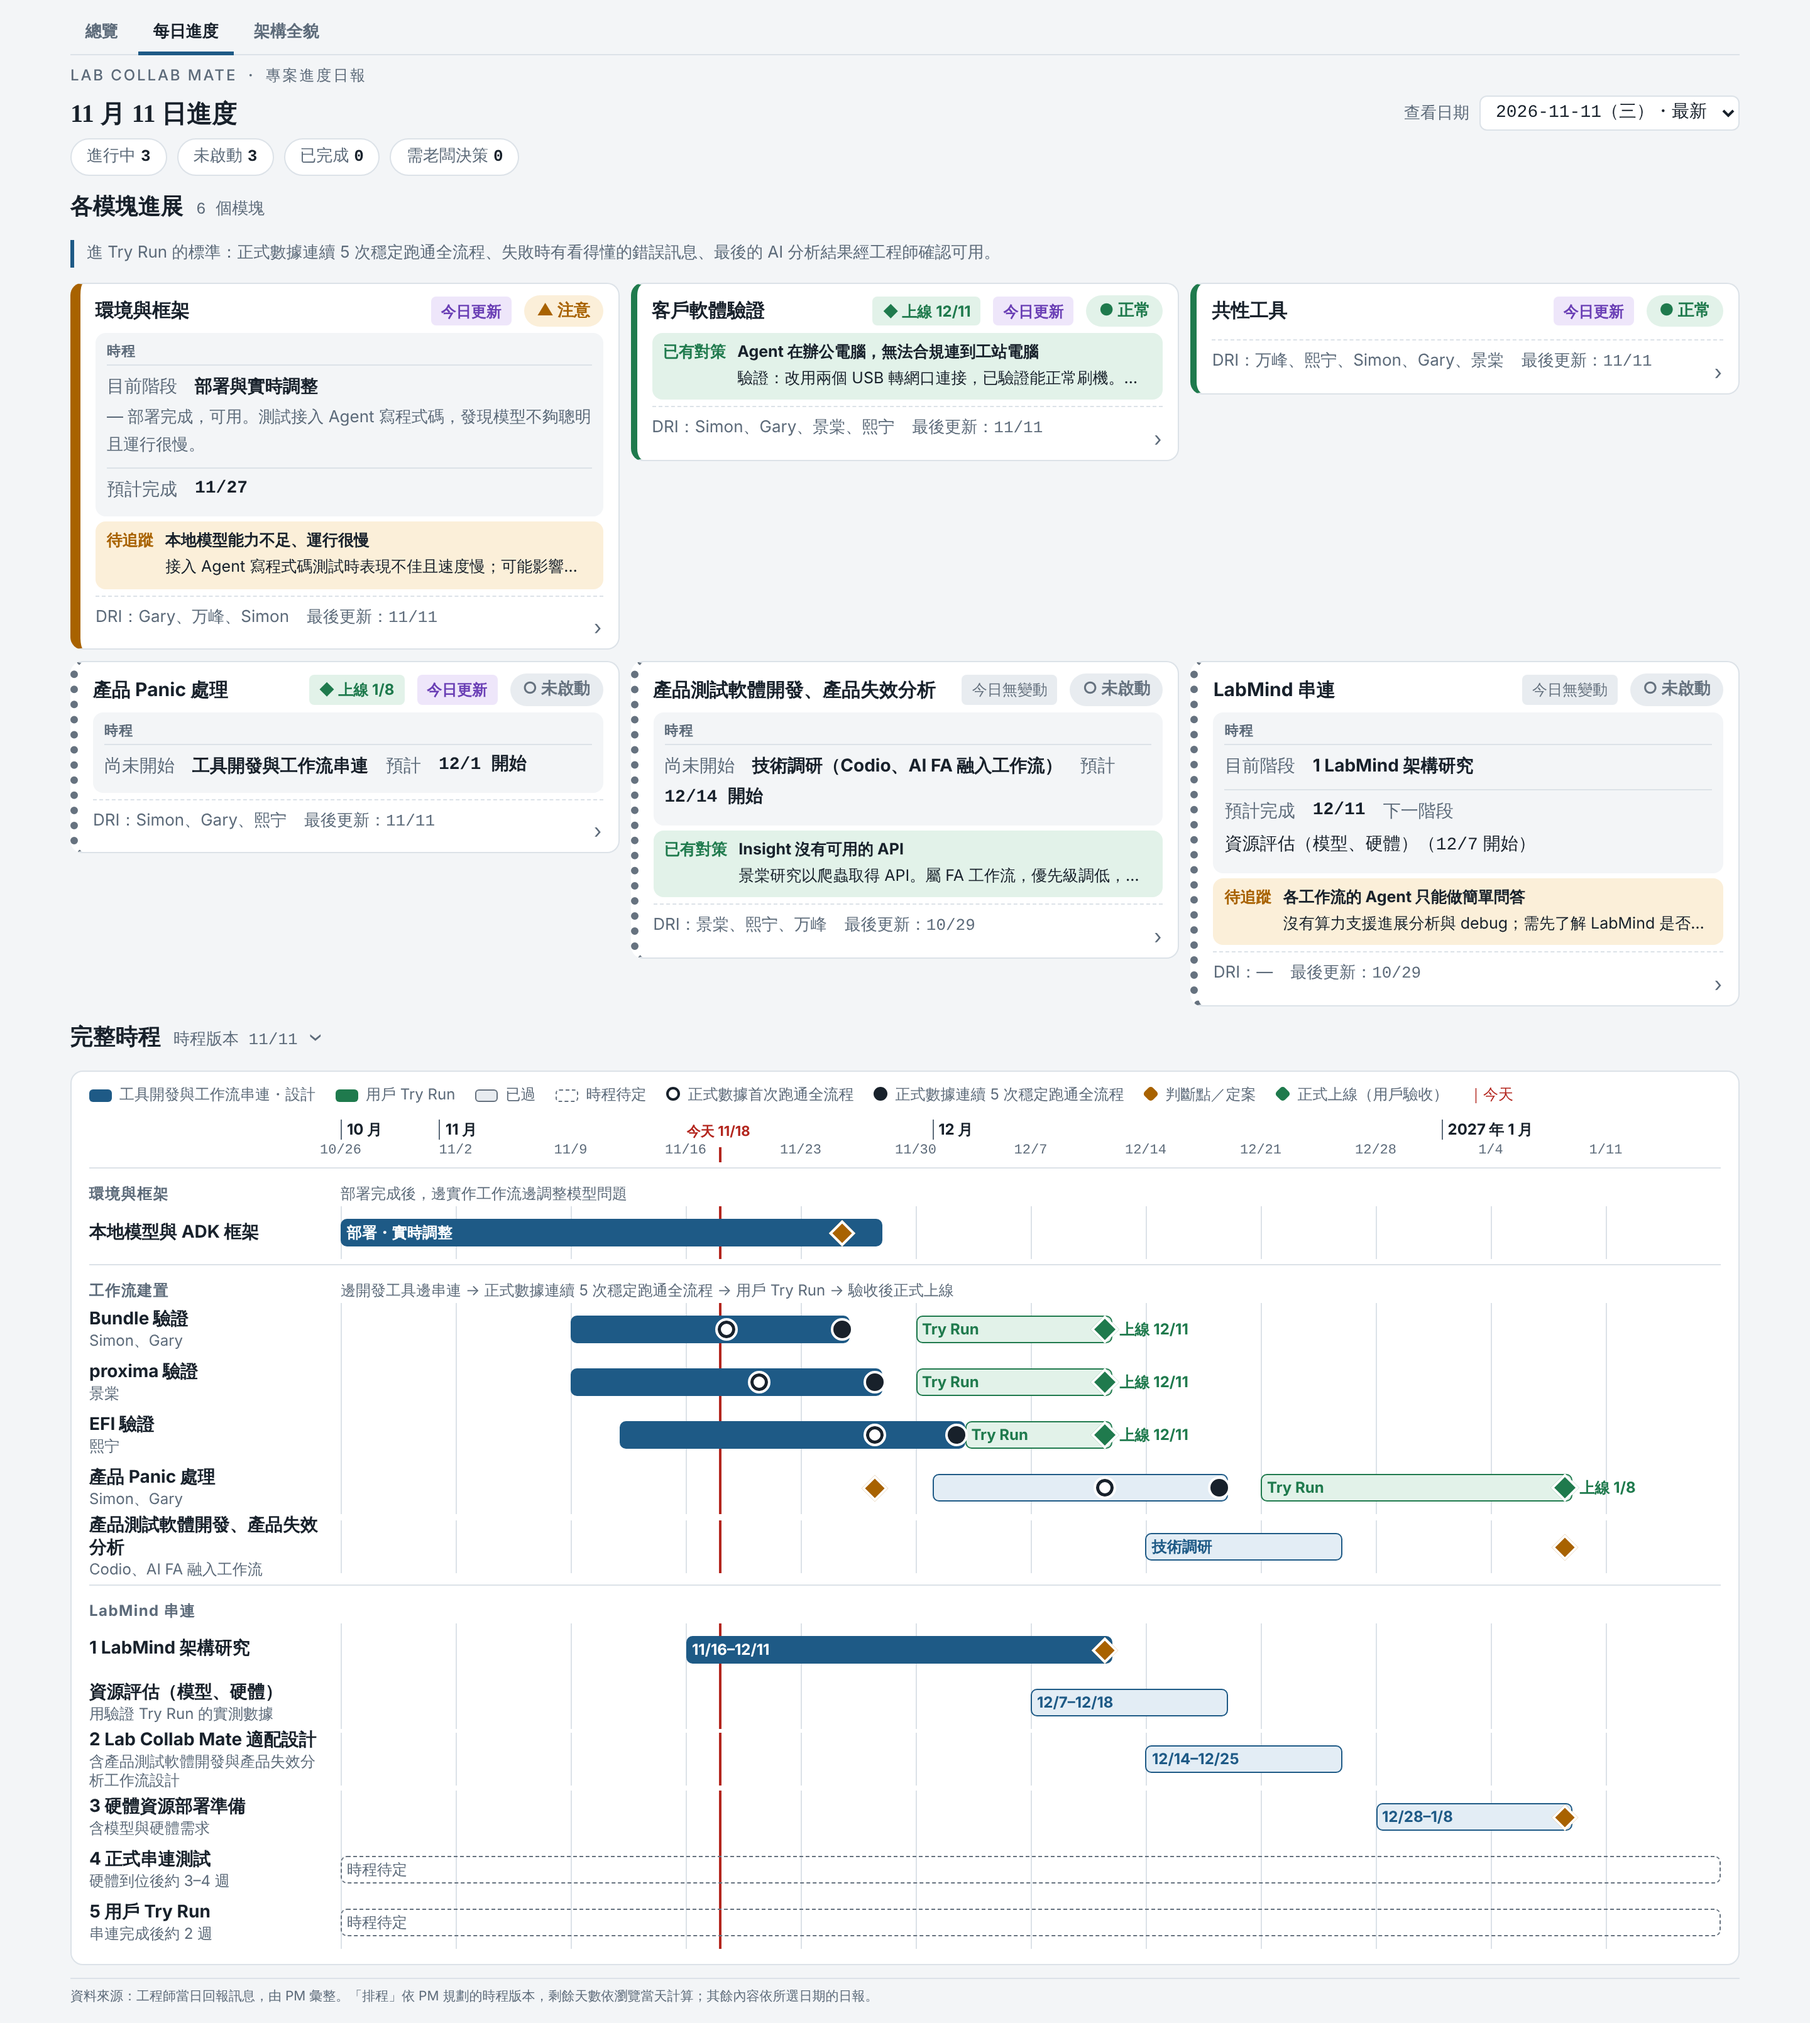
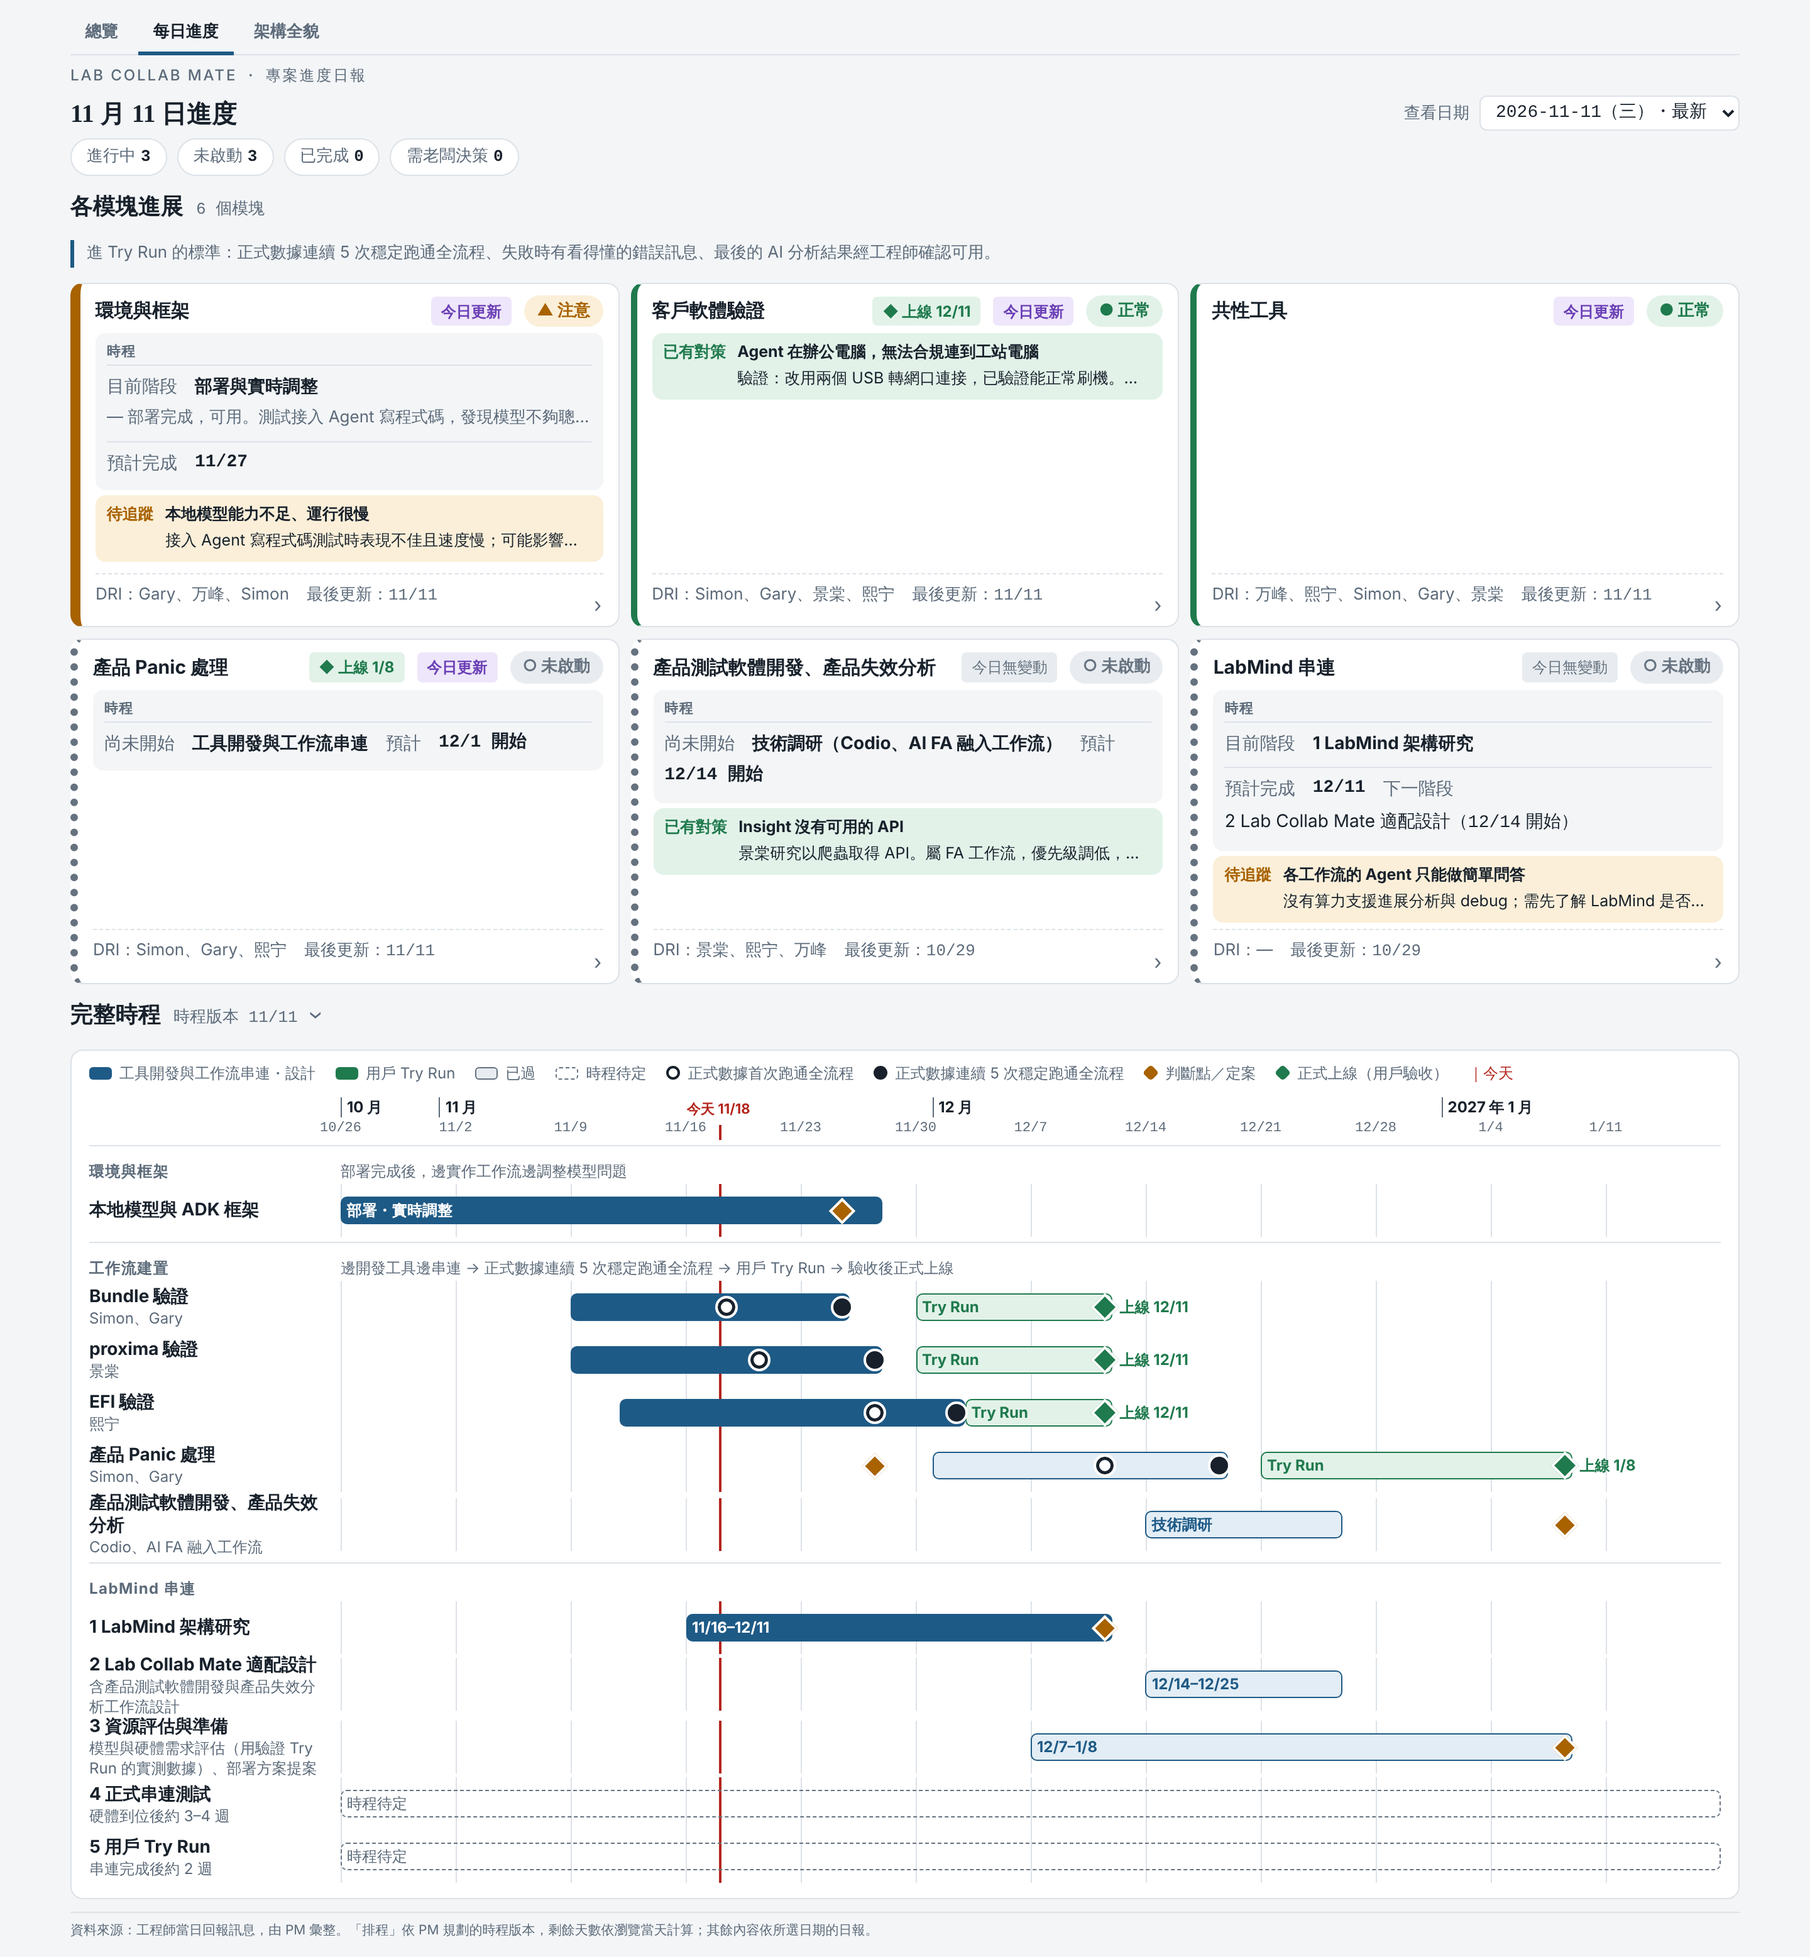
[2026-11-17_overview-redesign] 日報頁卡片等高、LabMind 第 3 步合併為資源評估與準備；定案 6 步時程
Claude-Session: https://claude.ai/code/session_01Cd6Gft6mTX8zcMZinAmXya

diff --git a/public/daily.html b/public/daily.html
@@ -274,10 +274,14 @@ footer{font-size:12px;color:var(--muted);border-top:1px solid var(--line);paddin
 .ssum .row .k{color:var(--muted)}
 .ssum b.mono{font-size:14px}
 .ssum .dim{color:var(--muted);font-size:13px}
+/* 收合摘要裡的「現象」只留一行（完整原話在展開區），讓等高卡片不被單張撐高 */
+@media (min-width:901px){.ssum .row .dim{flex-basis:100%;min-width:0;white-space:nowrap;overflow:hidden;text-overflow:ellipsis}}
 .card[data-s="idle"] .sum .prog{color:var(--muted)}
 @media (min-width:901px){
   .wrap{max-width:1360px;gap:14px;padding-block:14px 20px}
-  .mods{display:grid;grid-template-columns:repeat(auto-fit,minmax(min(100%,400px),1fr));gap:10px;align-items:start}
+  .mods{display:grid;grid-template-columns:repeat(auto-fit,minmax(min(100%,400px),1fr));gap:10px;align-items:stretch}
+  /* 收合時所有卡片等高（取最高者）；有卡片展開時不套用，避免其他列被撐高 */
+  .mods:not(:has(.card[aria-expanded="true"])){grid-auto-rows:1fr}
   .card{padding:11px 13px;gap:6px}
   .card h3{font-size:15.5px}
   .ssum{padding:6px 10px}
@@ -381,9 +385,8 @@ const PLAN = {
      ms:[["2027-01-08","給出產品測試軟體開發與產品失效分析的時程","gate"]]},
     {name:"LabMind 串連", group:2, row:"each", steps:[
       {n:"1 LabMind 架構研究", s:"2026-11-16", e:"2026-12-11", kind:"build", ms:[["2026-12-11","和 LabMind 團隊定案方案 A／B","gate"]]},
-      {n:"資源評估（模型、硬體）", sub:"用驗證 Try Run 的實測數據", s:"2026-12-07", e:"2026-12-18", kind:"build"},
       {n:"2 Lab Collab Mate 適配設計", sub:"含產品測試軟體開發與產品失效分析工作流設計", s:"2026-12-14", e:"2026-12-25", kind:"build"},
-      {n:"3 硬體資源部署準備", sub:"含模型與硬體需求", s:"2026-12-28", e:"2027-01-08", kind:"build", ms:[["2027-01-08","部署方案提案會","gate"]]},
+      {n:"3 資源評估與準備", sub:"模型與硬體需求評估（用驗證 Try Run 的實測數據）、部署方案提案", s:"2026-12-07", e:"2027-01-08", kind:"build", ms:[["2027-01-08","部署方案提案會","gate"]]},
       {n:"4 正式串連測試", sub:"硬體到位後約 3–4 週", s:null},
       {n:"5 用戶 Try Run", sub:"串連完成後約 2 週", s:null}]}
   ]

diff --git a/work/2026-11-17_overview-redesign/outputs/src/shot_daily.js b/work/2026-11-17_overview-redesign/outputs/src/shot_daily.js
@@ -23,8 +23,16 @@ const url = 'file://' + path.resolve(root, 'public', 'daily.html');
       }),
     }));
     console.log(`${w}x${h} scrollHeight=${m.sh} 垂直溢出=${m.sh - h}px 橫向溢出=${m.sw - w}px`, errs.length ? 'ERR ' + errs.join(';') : 'console OK');
+    const cards = await p.evaluate(() => [...document.querySelectorAll('#mods .card')].map(c => Math.round(c.getBoundingClientRect().height)));
+    console.log('  卡片高度', JSON.stringify(cards));
     if (w === 1440) {
-      console.log(JSON.stringify(m.h3));
+      // 展開第一張卡時，其他卡不應被撐高
+      await p.click('#mods .card');
+      await p.waitForTimeout(200);
+      const exp = await p.evaluate(() => [...document.querySelectorAll('#mods .card')].map(c => Math.round(c.getBoundingClientRect().height)));
+      console.log('  展開第一張後', JSON.stringify(exp));
+      await p.click('#mods .card');
+      await p.waitForTimeout(200);
       await p.screenshot({ path: path.join(out, 'daily-renamed-1440.png') });
       for (const s of await p.$$('summary')) {
         if ((await s.textContent()).includes('完整時程')) { await s.click(); break; }

diff --git a/work/2026-11-17_overview-redesign/outputs/data-template.md b/work/2026-11-17_overview-redesign/outputs/data-template.md
@@ -48,23 +48,40 @@
 | Nomi 活化使用 | AAS 系統重構 | 交付型 | xTrack 重構為 Xylon，有明確交付物 |
 | Nomi 活化使用 | 簡報技能研究 | 研究型 | 技能研究後推廣給同仁 |
 
-### Lab Collab Mate 參考填法（里程碑取自日報頁時程，本週完成事項待 11/17 後的日報）
+### Lab Collab Mate 填法（迭代式，與其他案例不同）
+
+Lab Collab Mate 有 4 個核心業務，依序建置；目前進行中的是「客戶軟體驗證」（3 條工作流）。
+每條工作流是**一層時程**，固定 6 步，每步填起訖日期（已完成填實際日期）：
+
+工作流設計規劃 → 自動化節點開發 → 工作流首次跑通 → 連續五次跑通 → 用戶驗收 → 正式上線
+
+自動化節點開發通常最久，進度另以節點數呈現，頁面寫成「完成 4 個・共 12 個（本週 +2）」，不寫「4/12」以免被看成日期。
 
 ```
-### Lab Collab Mate
-- 類型：交付型
-- DRI：（待補）
-- 上週階段：開發
-- 本週階段：開發
-- 里程碑：
-  - [ ] 11/18 Bundle 驗證：正式數據首次跑通全流程
-  - [ ] 11/20 proxima 驗證：正式數據首次跑通全流程
-  - [ ] 11/25 判斷點：本地模型能否跑完 Bundle 工作流
-  - [ ] 11/25 Bundle 驗證：連續 5 次穩定跑通
-  - [ ] 11/27 Panic 串口方案定案
-  - [ ] 11/27 EFI 驗證：正式數據首次跑通全流程
-  - [ ] 12/11 驗證類工作流正式上線
+### 客戶軟體驗證 — Bundle 驗證
+- DRI：Simon、Gary
+- 工作流設計規劃：  ~  
+- 自動化節點開發：11/9 ~        （節點：完成 __ 個・共 __ 個；本週 +__）
+- 工作流首次跑通：   ~ 11/18（原時程）
+- 連續五次跑通：     ~ 11/25（原時程）
+- 用戶驗收：11/30 ~ 12/11（原時程）
+- 正式上線：12/11（原時程）
 - 本週完成事項：
-  - （待本週日報）
+  - 
 - 需要副總支援：
+
+### 客戶軟體驗證 — proxima 驗證（DRI：景棠；原時程 首次跑通 11/20、連續五次 11/27、驗收 11/30–12/11、上線 12/11）
+### 客戶軟體驗證 — EFI 驗證（DRI：熙宁；原時程 首次跑通 11/27、連續五次 12/2、驗收 12/3–12/11、上線 12/11）
+
+### 排隊中的業務（各填預計開始日即可）
+- 產品 Panic 處理：12/1 開始
+- 產品測試軟體開發：12/14 開始調研（Codio 融入工作流）
+- 產品失效分析：12/14 開始調研（AI FA 融入工作流）
+
+### LabMind 接入（5 步，各填起訖日期）
+1 LabMind 架構研究：11/16 ~ 12/11
+2 Lab Collab Mate 適配設計：12/14 ~ 12/25
+3 資源評估與準備：12/7 ~ 1/8
+4 正式串連測試：時程待定（硬體到位後約 3–4 週）
+5 用戶 Try Run：時程待定（串連完成後約 2 週）
 ```
